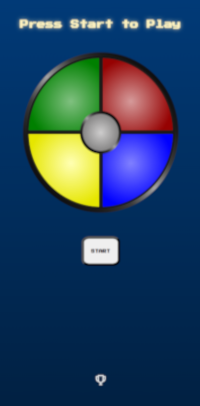
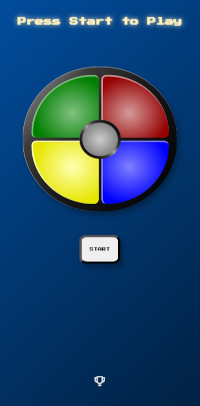
Replace images

diff --git a/styles.css b/styles.css
@@ -52,7 +52,7 @@ section {
     #0c0c0c,
     #000
   );
-  width: 50%;
+  width: 30%;
   aspect-ratio: 1/1;
   display: grid;
   grid-template-columns: 1fr 1fr;
@@ -305,7 +305,7 @@ section {
 
 .players-name {
   max-width: 60%;
-  height: 30%;
+  /* height: 30%; */
   gap: 10%;
   & label {
     min-width: 100%;
@@ -315,6 +315,7 @@ section {
     max-width: 90%;
     display: flex;
     align-items: center;
+    margin-block: 5%;
   }
   .p-name {
     max-width: 70%;
